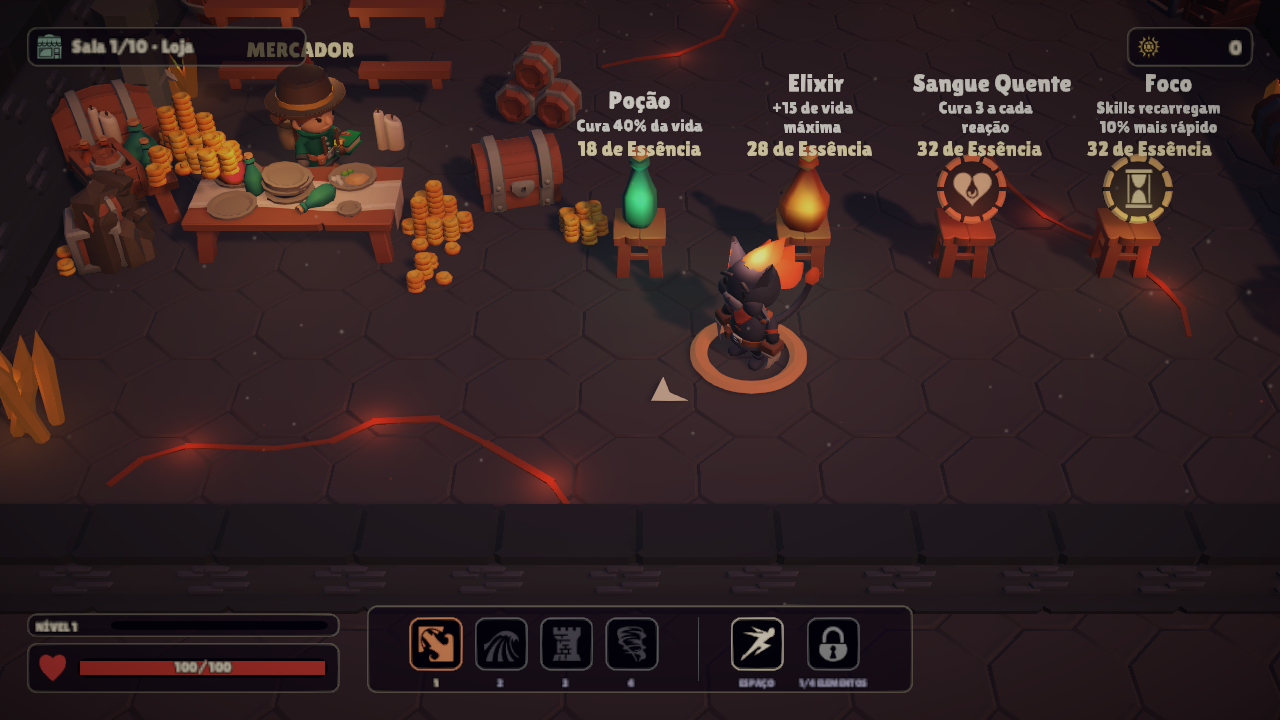
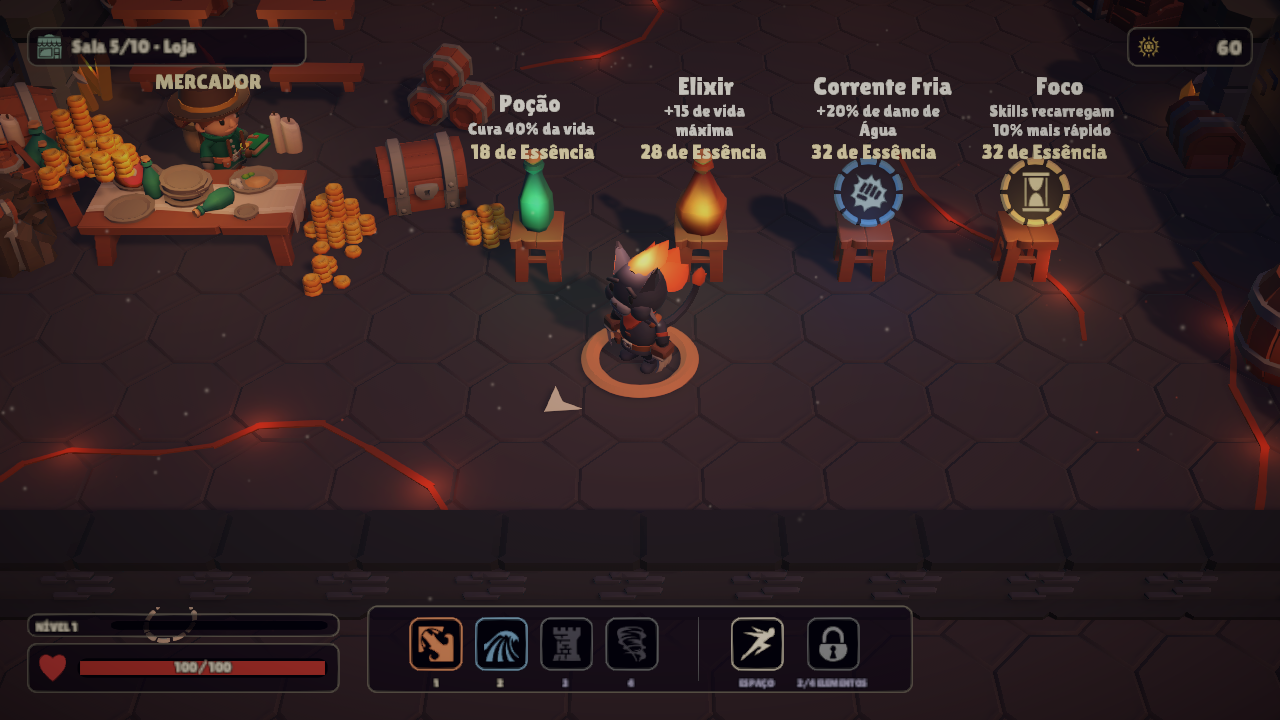
Prints do itch das salas de escolha refeitos na ordem de uma run (sala certa no chip e elementos no HUD, Essência no contador)

diff --git a/docs/progresso.html b/docs/progresso.html
@@ -62,7 +62,7 @@
     <h2>Rodada 22: Explosivo mais justo e a Elite diz o que tem</h2>
     <div class="meta"><span class="tag who">Enzo</span><span class="tag who">Leonardo</span><span class="tag who">Miguel</span><span class="tag ok">crítico de legibilidade dos inimigos (prints e fichas), votado pelos três críticos</span></div>
     <ul>
-      <li><b>Página do itch vista por um jurado (06h15):</b> um crítico fez o papel de jurado de jam, que decide em 60 s se baixa o jogo. O texto agora abre com gênero, plataforma e duração ("Roguelite de ação em 3D com câmera de cima, para jogar no navegador ou no Windows. Uma run leva de 10 a 15 minutos."), o gancho de marcar e detonar vem antes da tabela de teclas, com um resumo de uma linha dos controles, e o cenário que reage virou itens curtos. Nenhum print mostrava chefe nem reação: novo <code>docs/itch_prints/8_chefe.png</code> (Guardião na sala 10/10 com Magma), e a ordem sugerida é onda, título, chefe, sala limpa, Santuário, loja. Ao gerar os prints do chefe apareceu um defeito de verdade: com o chefe no fundo da sala, os números de dano subiam até o teto da tela e paravam em cima da palavra da reação ("MAGMA!" com um "9" escrito por cima). Agora número que encosta no teto onde já há texto parado some na hora, e duas palavras longas lado a lado (MAGMA! e BLOQUEOU) se empilham em vez de encostar. E o teto dos textos no ar desceu de 85% para 80% da tela: "ESCUDO!" ficava atrás da linha "ESCUDO — aguente firme" sob a barra do chefe.<br><img src="img/s19_chefe_itch.jpg" alt="Print do chefe para o itch: Guardião das Cinzas na sala 10/10 com Magma" style="max-width:100%"></li>
+      <li><b>Página do itch vista por um jurado (06h15):</b> um crítico fez o papel de jurado de jam, que decide em 60 s se baixa o jogo. O texto agora abre com gênero, plataforma e duração ("Roguelite de ação em 3D com câmera de cima, para jogar no navegador ou no Windows. Uma run leva de 10 a 15 minutos."), o gancho de marcar e detonar vem antes da tabela de teclas, com um resumo de uma linha dos controles, e o cenário que reage virou itens curtos. Nenhum print mostrava chefe nem reação: novo <code>docs/itch_prints/8_chefe.png</code> (Guardião na sala 10/10 com Magma), e a ordem sugerida é onda, título, chefe, sala limpa, Santuário, loja. Os prints da loja, Descanso, Santuário e Mestre foram refeitos na ordem de uma run (Santuário na sala 3, Mestre na 4, loja na 5, Descanso na 7, com os elementos que o herói teria ali; antes todos diziam "Sala 1/10" com três cadeados), e o nome "MERCADOR" desceu para logo acima da cabeça (ficava sob o chip da sala). Ao gerar os prints do chefe apareceu um defeito de verdade: com o chefe no fundo da sala, os números de dano subiam até o teto da tela e paravam em cima da palavra da reação ("MAGMA!" com um "9" escrito por cima). Agora número que encosta no teto onde já há texto parado some na hora, e duas palavras longas lado a lado (MAGMA! e BLOQUEOU) se empilham em vez de encostar. E o teto dos textos no ar desceu de 85% para 80% da tela: "ESCUDO!" ficava atrás da linha "ESCUDO — aguente firme" sob a barra do chefe.<br><img src="img/s19_chefe_itch.jpg" alt="Print do chefe para o itch: Guardião das Cinzas na sala 10/10 com Magma" style="max-width:100%"></li>
       <li><b>Grimório com o cenário:</b> o jogador e o cético perguntaram como alguém descobre essas regras. O Grimório ganhou o bloco CENÁRIO sob a maestria: "Água apaga velas e respiradouros e molha a pólvora; Fogo reacende; o vento apaga velas. A poça e a erupção marcam quem está em cima."<br><img src="img/grimorio.png" alt="Grimório com o bloco Cenário" style="max-width:100%"></li>
       <li><b>Rodada 31, o respiradouro entra nas reações (4 pontos, sem veto):</b> a erupção queimava os inimigos em cima mas não deixava marca, então para Brann e Vey o respiradouro era só perigo. Agora quem sobrevive à erupção fica com a marca de Fogo, como a poça d'água marca com Água: Terra nele vira Magma, Água vira Vapor, Ar vira Tempestade de Fogo. Atrair o bando para o respiradouro vale para todo herói. As condições do cético entraram: a erupção só marca quem está sem marca (não renova nem troca a de ninguém, para não virar reação em laço a cada 4,5 s) e não marca quem é de Fogo (Brasa Viva); a sonda com os quatro heróis foi rodada depois.</li>
       <li><b>Rodada 30, o vento apaga vela (6 pontos):</b> Fogo e Água mexiam no cenário, Terra e Ar quase nada. Agora a skill de Ar do Vey apaga as velas em volta, como soprar (mesma troca de malha acesa/apagada do pack e fiapo de fumaça, com o som do vento); as tochas grandes da parede continuam acesas, e o Fogo reacende tudo. É sabor, sem efeito na luta, como a Água nas velas. Descartado: Terra tampando o respiradouro (3 pontos; o cético: seria a Água com outra cor).</li>

diff --git a/Assets/Game/Game/Tests/PlayMode/AspectShots.cs b/Assets/Game/Game/Tests/PlayMode/AspectShots.cs
@@ -232,9 +232,15 @@ namespace Quintessence.Game.PlayTests
             pc.GetComponent<Health>().Pool.ExtraDamageTakenMultiplier = 0f;
             Directory.CreateDirectory("Logs/aspect");
             director.Run.AddEssence(60);
-            foreach (var type in new[] { RoomType.Shop, RoomType.Shrine, RoomType.Master, RoomType.Treasure, RoomType.Pact, RoomType.Rest })
+            hud.SetEssence(director.Run.Essence); // o contador so atualiza por evento do jogo
+            // na ordem de uma run de verdade: o chip diz a sala certa e o HUD tem os elementos que o heroi teria ali
+            // (o jurado da pagina do itch estranhou loja e Descanso na "Sala 1/10" com tres cadeados)
+            foreach (var (type, room) in new[] { (RoomType.Shrine, 3), (RoomType.Master, 4), (RoomType.Shop, 5), (RoomType.Treasure, 5), (RoomType.Pact, 6), (RoomType.Rest, 7) })
             {
+                if (room >= 4) pc.Awaken(ElementType.Water);
+                if (room >= 6) pc.Awaken(ElementType.Earth);
                 director.ShowRoom(type);
+                hud.SetRoom($"Sala {room}/10 · {RoomInfo.Name(type)}", type);
                 pc.Teleport(director.EntryPoint + new Vector3(0f, 0f, 2.5f), Vector3.forward);
                 for (float t = 0; t < 1.6f; t += Time.unscaledDeltaTime) yield return null;
                 yield return Shoot(Camera.main, $"Logs/aspect/sala_{type}.png", new Vector2Int(1280, 720));
